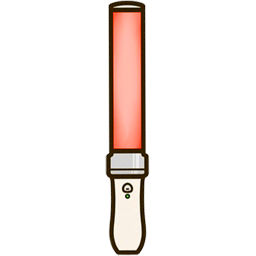
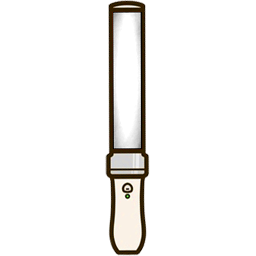
OBSRoom style tweaks

Changed region(s): [[0.4375, 0.0312, 0.5625, 0.5938]]

diff --git a/src/components/OBSRoom.vue b/src/components/OBSRoom.vue
@@ -5,7 +5,7 @@
 	- Transparent fullscreen stage for OBS Browser Source capture
 -->
 <template>
-	
+
 	<!-- Fullscreen, transparent canvas for OBS -->
 	<div ref="stageRef" class="obs-stage">
 		<!-- Room Code (corner, thick text, theme color, black outline) -->
@@ -336,12 +336,13 @@ function penTintStyle(hex) {
 		background: `#${hex}`,
 		maskImage: url,
 		maskRepeat: 'no-repeat',
-		maskSize: '100% 100%',
-		maskPosition: 'center',
+		maskSize: '100% 250%',
+		maskPosition: 'top left',
 		WebkitMaskImage: url,
 		WebkitMaskRepeat: 'no-repeat',
-		WebkitMaskSize: '100% 100%',
-		WebkitMaskPosition: 'center'
+		WebkitMaskSize: '100% 250%',
+		WebkitMaskPosition: 'top left',
+		opacity: 0.5
 	};
 }
 
@@ -382,7 +383,7 @@ onBeforeUnmount(() => {
 		font-family: system-ui, -apple-system, Segoe UI, Roboto, Helvetica, Arial, sans-serif;
 		font-weight: 900; /* thick letters */
 		/* Big, responsive code */
-		font-size: clamp(24px, 6vw, 96px);
+		font-size: clamp(24px, 6vw, 48px);
 		letter-spacing: 0.06em;
 		color: var(--code-color, #ffffff);
 		/* Outline: mix of stroke + shadow for good capture in OBS */
@@ -421,8 +422,10 @@ onBeforeUnmount(() => {
 		/* Tint overlay uses the sprite as mask, so only opaque pixels are colored */
 		.pen__tint {
 			position: absolute;
-			inset: 0;
+			/* inset: 0; */
+			inset: 0px 0px 40% 0px;
 			pointer-events: none;
+			/* opacity: 0.5; */
 		}
 
 		.pen__name {
@@ -434,6 +437,7 @@ onBeforeUnmount(() => {
 			font-family: system-ui, -apple-system, Segoe UI, Roboto, Helvetica, Arial, sans-serif;
 			font-weight: 800;
 			font-size: clamp(10px, 1.6vw, 22px);
+			font-size: 22px;
 			color: #fff;
 			/* Black outline for readability */
 			-webkit-text-stroke: 2px #000;

diff --git a/src/components/PenRoom.vue b/src/components/PenRoom.vue
@@ -191,13 +191,13 @@ const tintStyle = computed(() => {
         // standard mask
 		maskImage: url,
 		maskRepeat: 'no-repeat',
-		maskSize: '100% 100%',
-		maskPosition: 'center',
+		maskSize: '256 256',
+		maskPosition: 'top left',
         // webkit mask for Safari
 		WebkitMaskImage: url,
 		WebkitMaskRepeat: 'no-repeat',
-		WebkitMaskSize: '100% 100%',
-		WebkitMaskPosition: 'center',
+		WebkitMaskSize: '256 256',
+		WebkitMaskPosition: 'top left',
 		opacity: 1
 	};
 });
@@ -442,8 +442,9 @@ onBeforeUnmount(() => {
 		   Result: only the non-transparent pixels of the sprite get tinted. */
 		.light__tint {
 			position: absolute;
-			inset: 0;
+			inset: 0px 0px 40% 0px;
 			pointer-events: none;
+			/* mix-blend-mode: multiply; */
 		}
 	}
 
